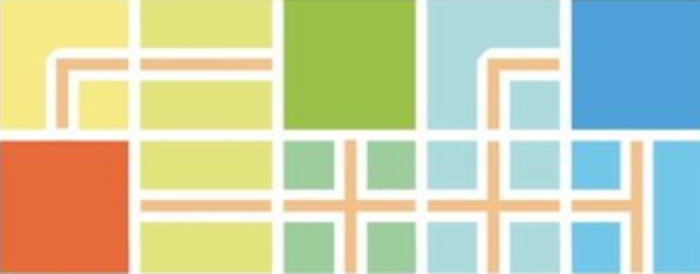
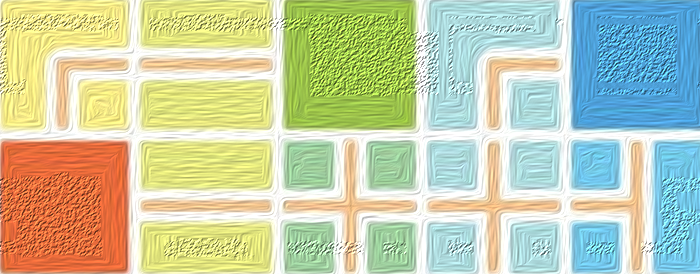
Cambia featured image
Anota caption

diff --git a/content/posts/el-metodo-zettelkasten-introduccion.md b/content/posts/el-metodo-zettelkasten-introduccion.md
@@ -8,7 +8,7 @@ author: Antonio Kobashikawa
 date: 2022-01-01T02:23:38.759Z
 ---
 
-![Portada](ahrens-el-metodo-zettelkasten.png)
+![Portada](ahrens-el-metodo-zettelkasten.png "Portada del libro")
 
 * Sönke Ahrens, "El Método Zettelkasten"
 * Cómo tomar notas de forma eficaz para impulsar la escritura y el
